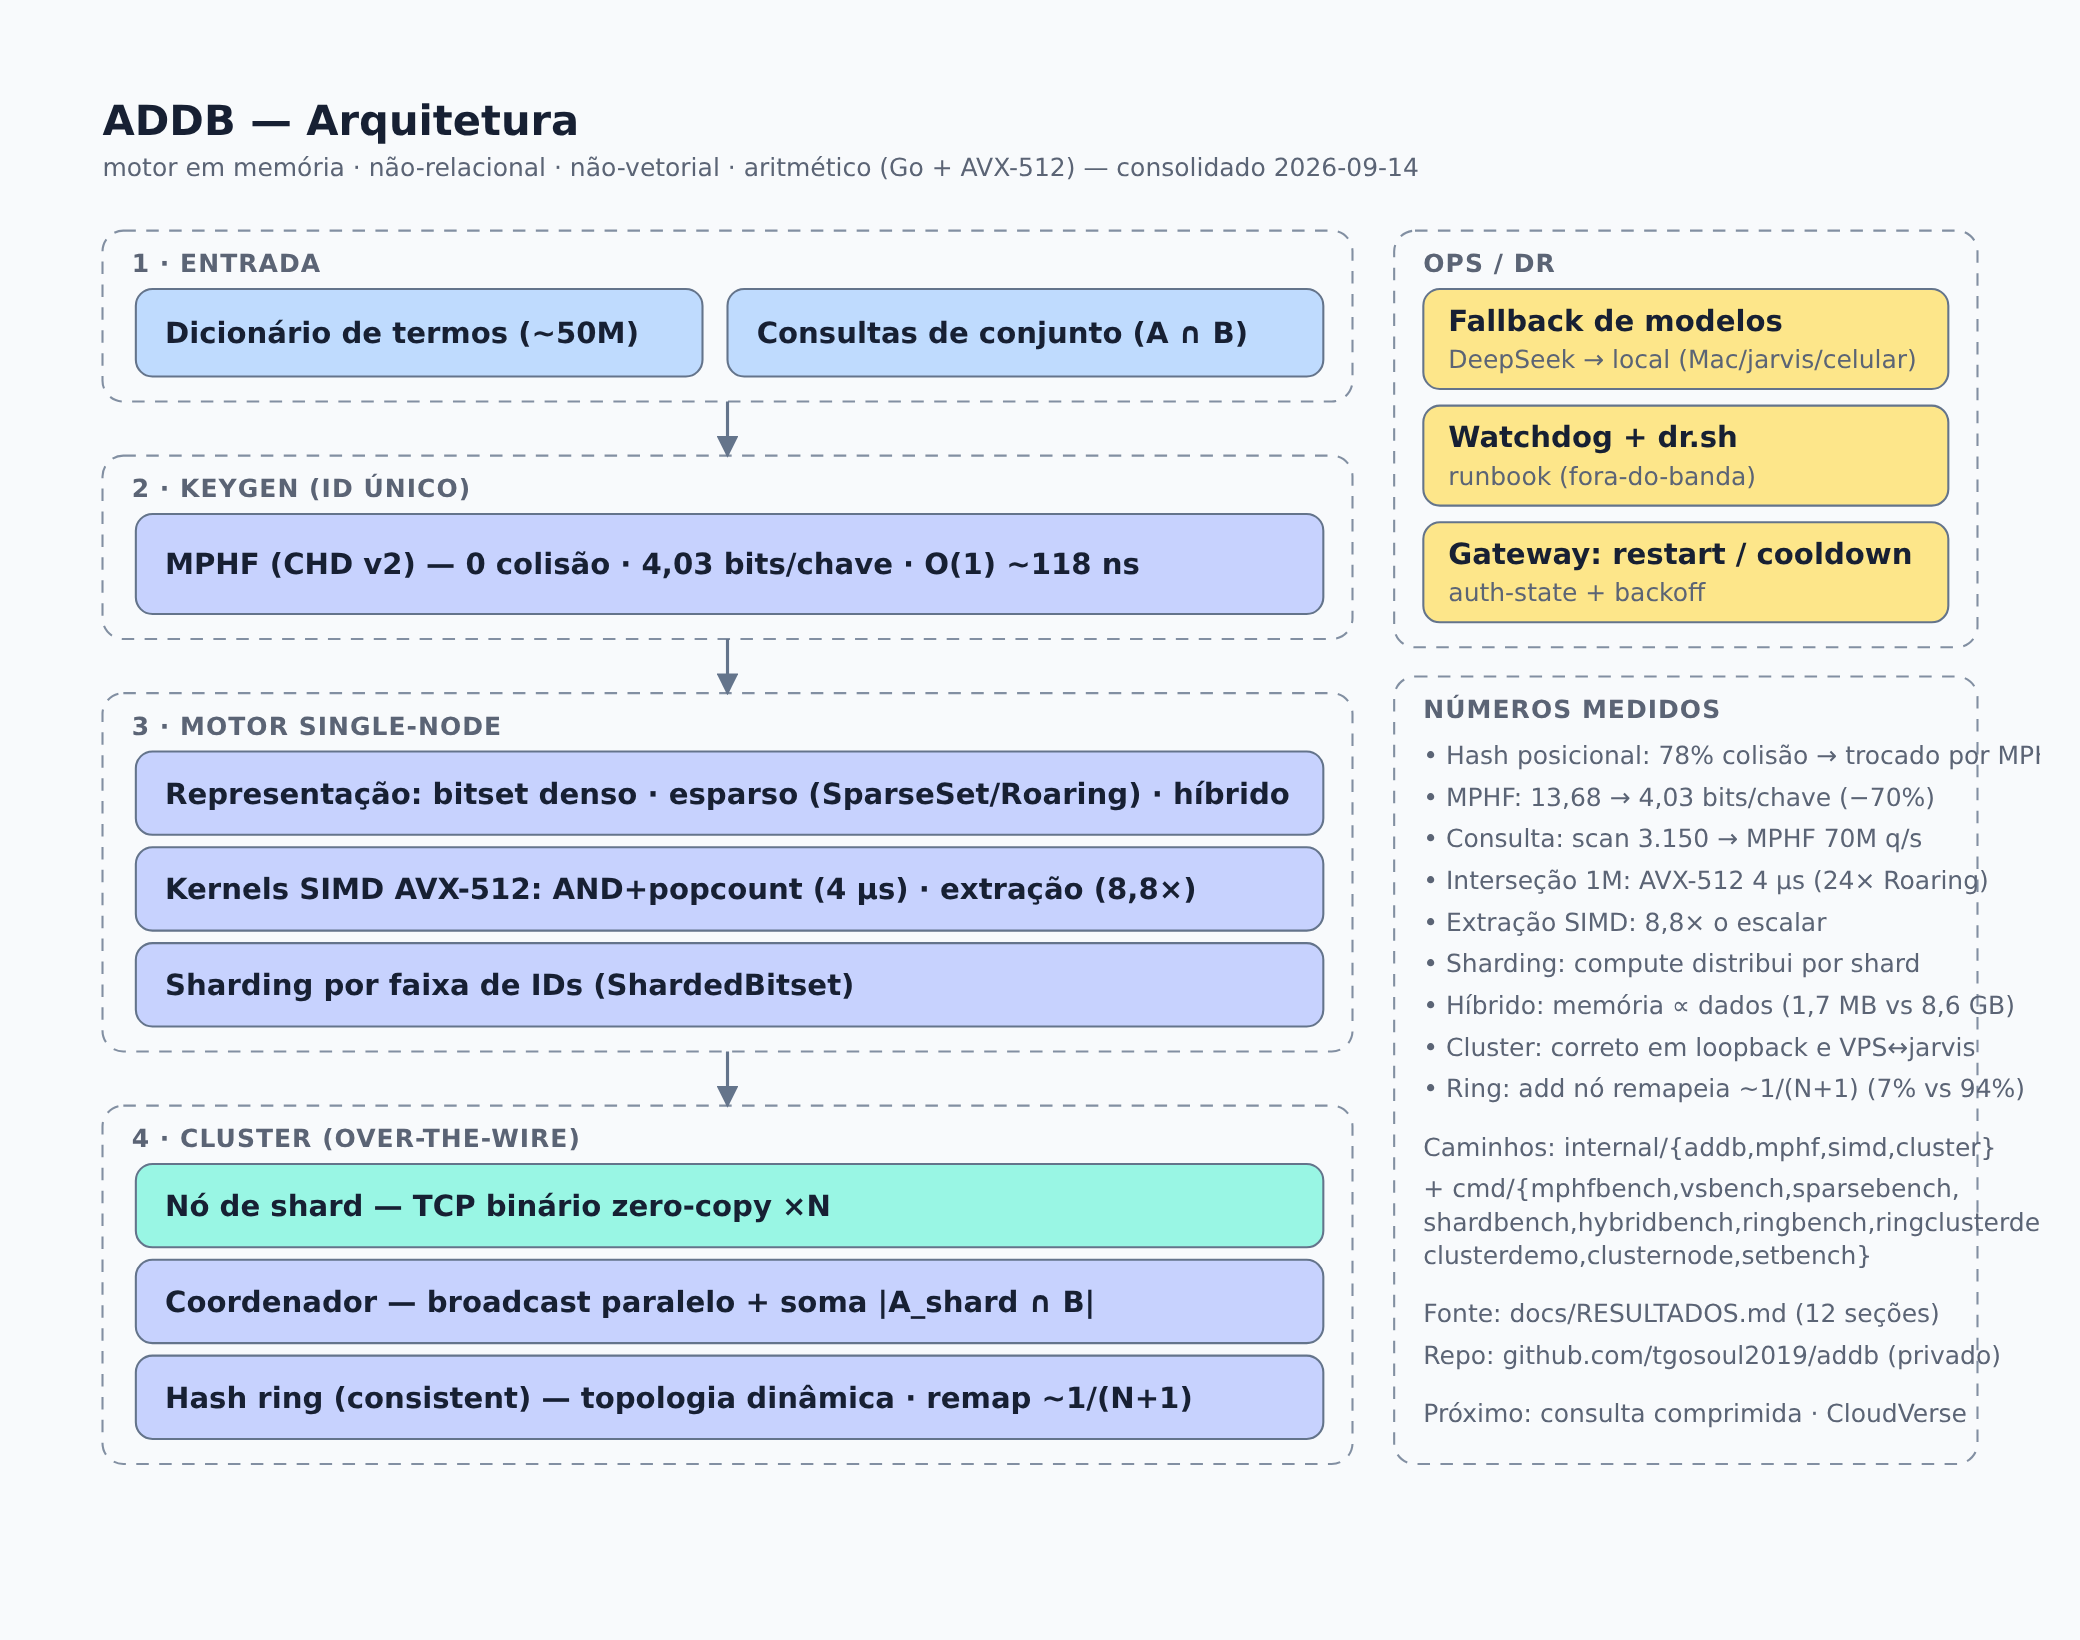
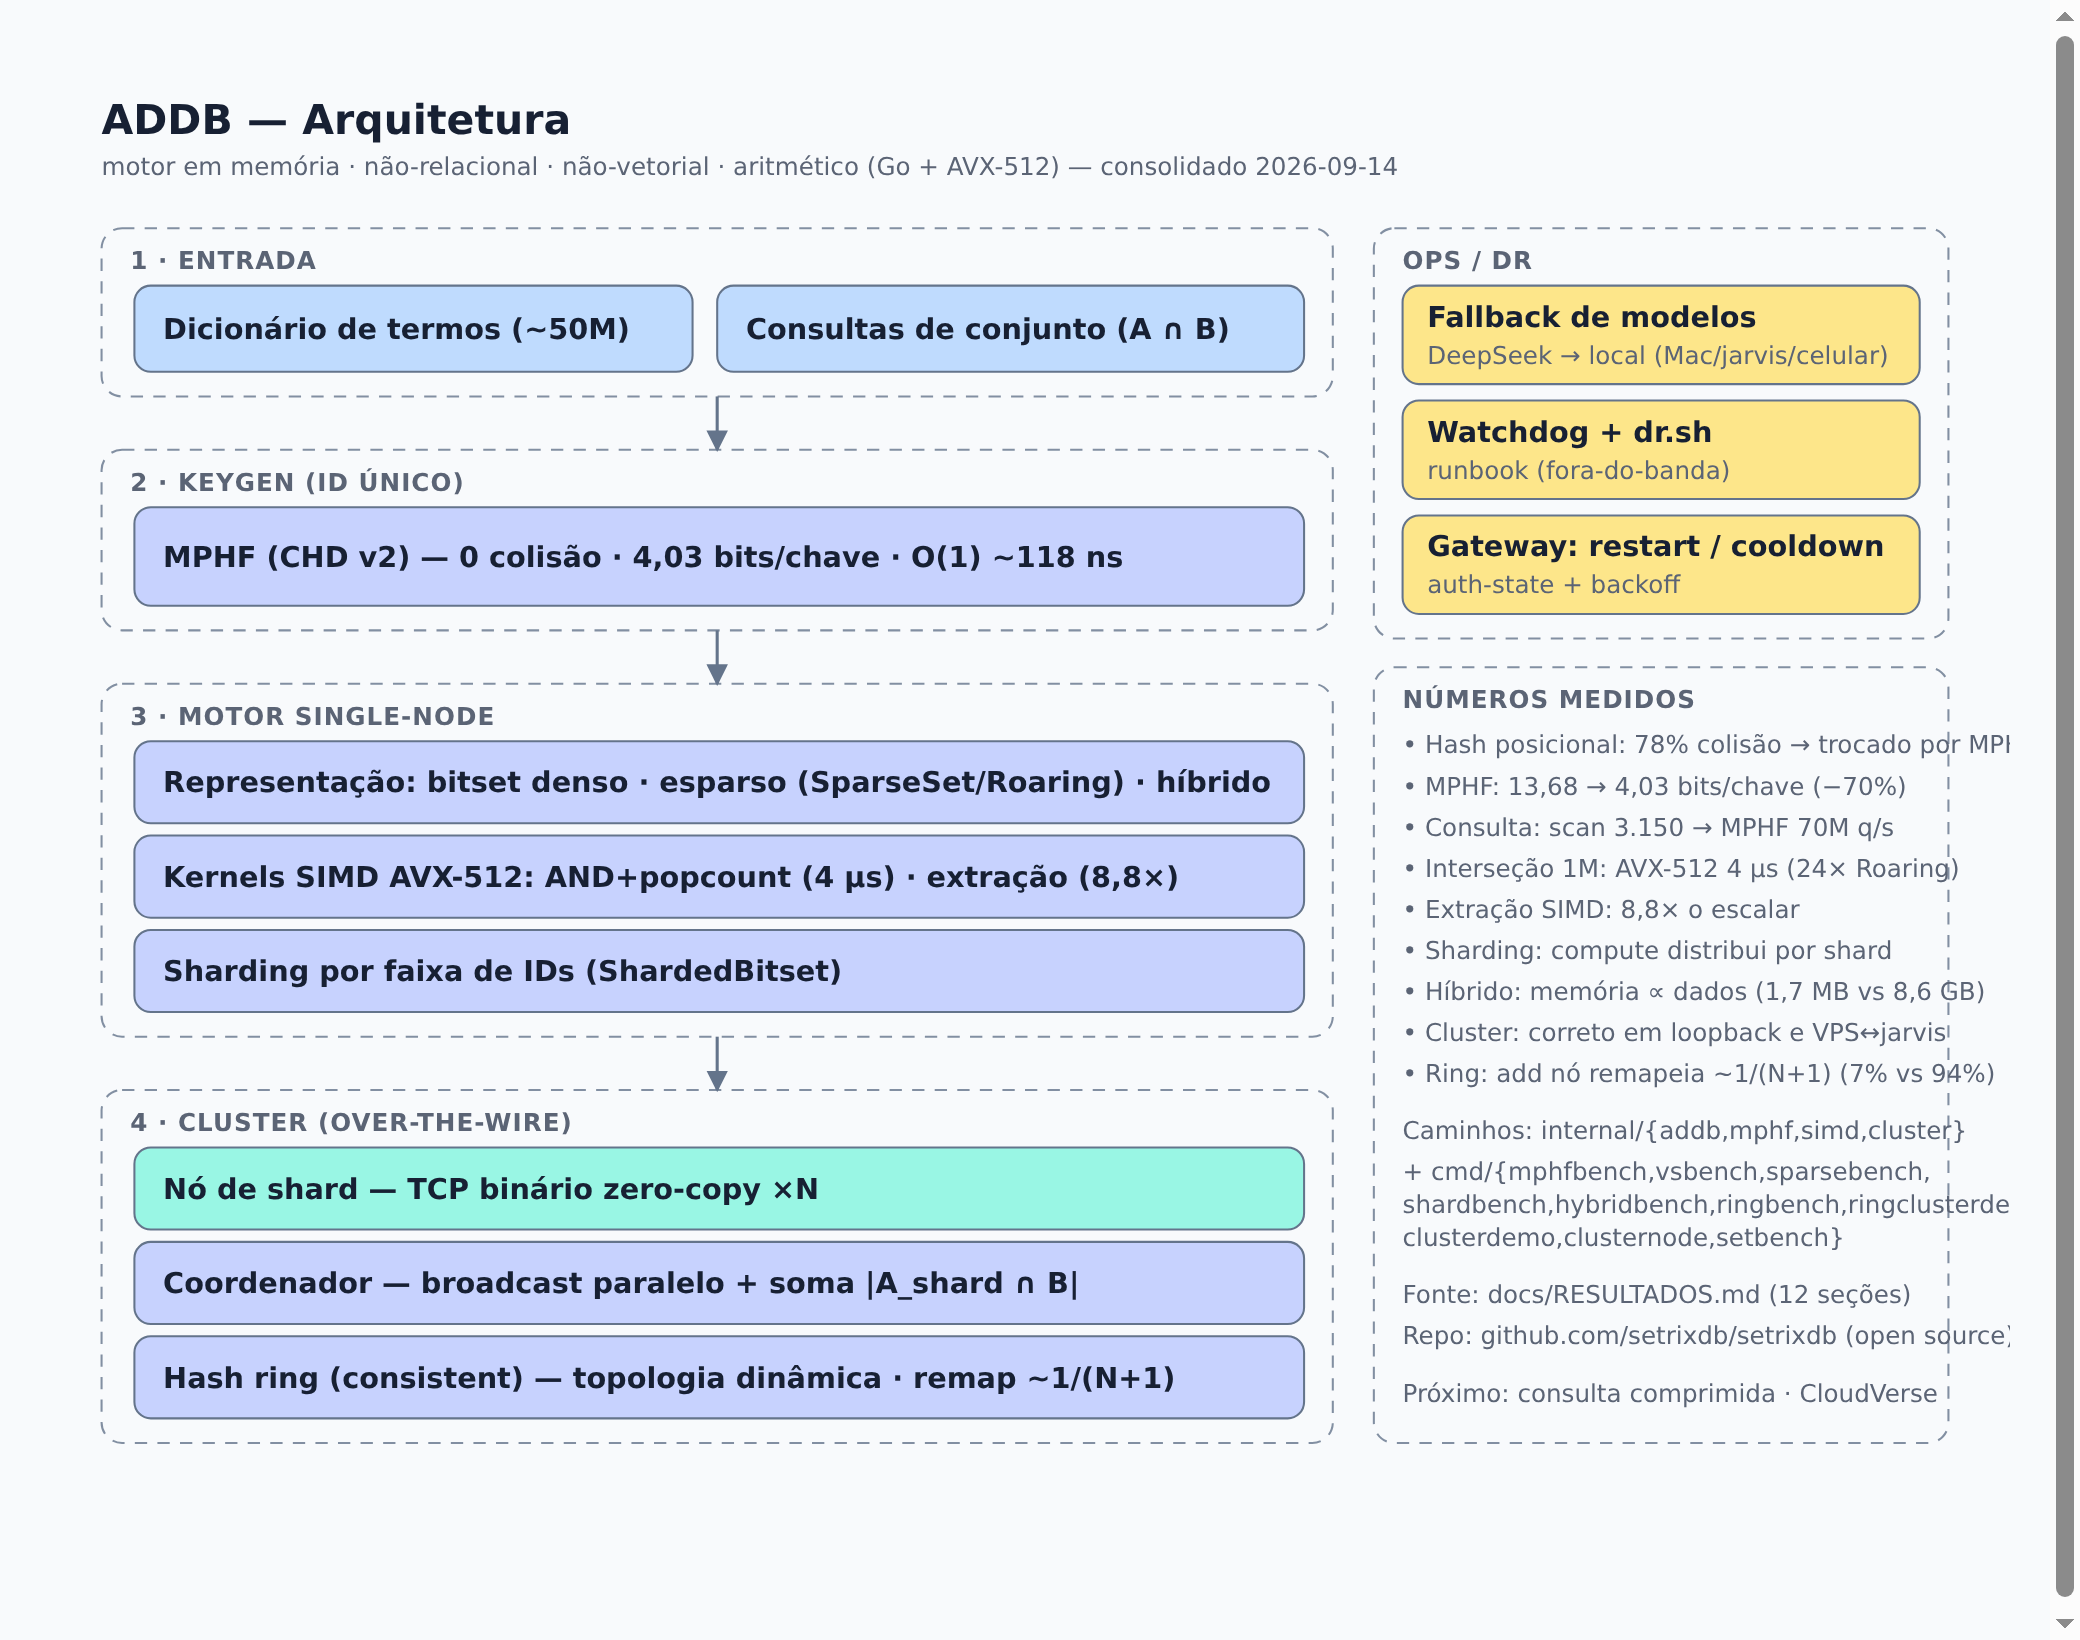
chore: transferir p/ org setrixdb — modulo github.com/setrixdb/setrixdb (+ diagrama)

Changed region(s): [[0.0625, 0.0311, 1.0, 0.9951]]

diff --git a/docs/ARQUITETURA-ADDB.html b/docs/ARQUITETURA-ADDB.html
@@ -108,7 +108,7 @@
   <text class="small" x="664" y="560">shardbench,hybridbench,ringbench,ringclusterdemo,</text>
   <text class="small" x="664" y="576">clusterdemo,clusternode,setbench}</text>
   <text class="small" x="664" y="604">Fonte: docs/RESULTADOS.md (12 seções)</text>
-  <text class="small" x="664" y="624">Repo: github.com/tgosoul2019/addb (privado)</text>
+  <text class="small" x="664" y="624">Repo: github.com/setrixdb/setrixdb (open source)</text>
   <text class="small" x="664" y="652">Próximo: consulta comprimida · plataforma de nuvem</text>
 </svg>
 </main>

diff --git a/cmd/vsbench/main.go b/cmd/vsbench/main.go
@@ -24,9 +24,9 @@ import (
 	"github.com/RoaringBitmap/roaring"
 	"github.com/RoaringBitmap/roaring/roaring64"
 	"github.com/bits-and-blooms/bloom/v3"
-	"github.com/tgosoul2019/addb/internal/addb"
-	"github.com/tgosoul2019/addb/internal/mphf"
-	"github.com/tgosoul2019/addb/internal/simd"
+	"github.com/setrixdb/setrixdb/internal/addb"
+	"github.com/setrixdb/setrixdb/internal/mphf"
+	"github.com/setrixdb/setrixdb/internal/simd"
 )
 
 func mix(x uint64) uint64 {

diff --git a/cmd/ringclusterdemo/main.go b/cmd/ringclusterdemo/main.go
@@ -11,9 +11,9 @@ import (
 	"math/rand"
 	"time"
 
-	"github.com/tgosoul2019/addb/internal/addb"
-	"github.com/tgosoul2019/addb/internal/cluster"
-	"github.com/tgosoul2019/addb/internal/simd"
+	"github.com/setrixdb/setrixdb/internal/addb"
+	"github.com/setrixdb/setrixdb/internal/cluster"
+	"github.com/setrixdb/setrixdb/internal/simd"
 )
 
 func buildWords(W int, density float64, seed int64) []uint64 {

diff --git a/cmd/mphfbench/main.go b/cmd/mphfbench/main.go
@@ -19,8 +19,8 @@ import (
 	"sync"
 	"time"
 
-	"github.com/tgosoul2019/addb/internal/addb"
-	"github.com/tgosoul2019/addb/internal/mphf"
+	"github.com/setrixdb/setrixdb/internal/addb"
+	"github.com/setrixdb/setrixdb/internal/mphf"
 )
 
 // makeKeys gera N chaves uint64 distintas (mix é bijeção ⇒ distintas).

diff --git a/cmd/sparsebench/main.go b/cmd/sparsebench/main.go
@@ -10,8 +10,8 @@ import (
 	"time"
 
 	"github.com/RoaringBitmap/roaring/roaring64"
-	"github.com/tgosoul2019/addb/internal/addb"
-	"github.com/tgosoul2019/addb/internal/simd"
+	"github.com/setrixdb/setrixdb/internal/addb"
+	"github.com/setrixdb/setrixdb/internal/simd"
 )
 
 func unique(a []uint64) []uint64 {

diff --git a/cmd/clusterdemo/main.go b/cmd/clusterdemo/main.go
@@ -18,8 +18,8 @@ import (
 	"strings"
 	"time"
 
-	"github.com/tgosoul2019/addb/internal/cluster"
-	"github.com/tgosoul2019/addb/internal/simd"
+	"github.com/setrixdb/setrixdb/internal/cluster"
+	"github.com/setrixdb/setrixdb/internal/simd"
 )
 
 func buildWords(W int, density float64, seed int64) []uint64 {

diff --git a/cmd/hybridbench/main.go b/cmd/hybridbench/main.go
@@ -10,8 +10,8 @@ import (
 	"time"
 
 	"github.com/RoaringBitmap/roaring/roaring64"
-	"github.com/tgosoul2019/addb/internal/addb"
-	"github.com/tgosoul2019/addb/internal/simd"
+	"github.com/setrixdb/setrixdb/internal/addb"
+	"github.com/setrixdb/setrixdb/internal/simd"
 )
 
 func main() {

diff --git a/cmd/setbench/main.go b/cmd/setbench/main.go
@@ -16,8 +16,8 @@ import (
 	"sort"
 	"time"
 
-	"github.com/tgosoul2019/addb/internal/addb"
-	"github.com/tgosoul2019/addb/internal/mphf"
+	"github.com/setrixdb/setrixdb/internal/addb"
+	"github.com/setrixdb/setrixdb/internal/mphf"
 )
 
 func makeShard(n int, seed int64) []uint64 {

diff --git a/internal/cluster/sharded.go b/internal/cluster/sharded.go
@@ -4,7 +4,7 @@ import (
 	"encoding/binary"
 	"net"
 
-	"github.com/tgosoul2019/addb/internal/addb"
+	"github.com/setrixdb/setrixdb/internal/addb"
 )
 
 // ShardedCluster distribui S shards (faixas de palavras) entre nós, atribuindo

diff --git a/bench/search_bench_test.go b/bench/search_bench_test.go
@@ -4,7 +4,7 @@ import (
 	"math/rand"
 	"testing"
 
-	"github.com/tgosoul2019/addb/internal/addb"
+	"github.com/setrixdb/setrixdb/internal/addb"
 )
 
 // makeWorkload gera um shard e um batch sintéticos para os benchmarks.

diff --git a/cmd/ringbench/main.go b/cmd/ringbench/main.go
@@ -10,7 +10,7 @@ import (
 	"fmt"
 	"math/rand"
 
-	"github.com/tgosoul2019/addb/internal/addb"
+	"github.com/setrixdb/setrixdb/internal/addb"
 )
 
 func routeAll(r *addb.Ring, keys []uint64) []string {

diff --git a/internal/simd/extract_test.go b/internal/simd/extract_test.go
@@ -5,7 +5,7 @@ import (
 	"reflect"
 	"testing"
 
-	"github.com/tgosoul2019/addb/internal/addb"
+	"github.com/setrixdb/setrixdb/internal/addb"
 )
 
 func TestExtractSetMatchesScalar(t *testing.T) {
